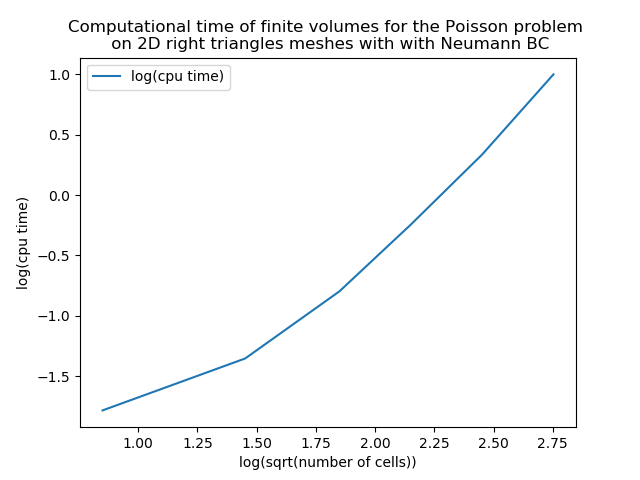
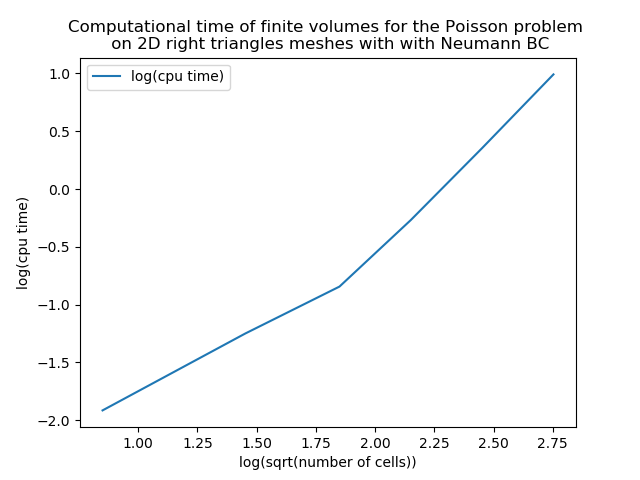
Updated previously existing numerical results

diff --git a/Documentation/NumericalResults/Convergence/StationaryDiffusion/2DFV_Neumann_RightTriangles/validationStationaryDiffusionEquation.py b/Documentation/NumericalResults/Convergence/StationaryDiffusion/2DFV_Neumann_RightTriangles/validationStationaryDiffusionEquation.py
@@ -134,8 +134,6 @@ def SolveStationaryDiffusionEquation(my_mesh,resolution,MeshType,method,BC):
 		if spaceDim == 3:
 			myProblem.setNeumannBoundaryCondition("Front")
 			myProblem.setNeumannBoundaryCondition("Back")
-		if method == 'FE' :
-			myProblem.setLinearSolver(cf.GMRES,cf.ILU);#LU solvers breaks down
 
 	if spaceDim == 2 : 
 		test_desc["Geometry"]="Square"

diff --git a/Documentation/NumericalResults/Convergence/StationaryDiffusion/2DFV_Neumann_Squares/validationStationaryDiffusionEquation.py b/Documentation/NumericalResults/Convergence/StationaryDiffusion/2DFV_Neumann_Squares/validationStationaryDiffusionEquation.py
@@ -134,8 +134,6 @@ def SolveStationaryDiffusionEquation(my_mesh,resolution,MeshType,method,BC):
 		if spaceDim == 3:
 			myProblem.setNeumannBoundaryCondition("Front")
 			myProblem.setNeumannBoundaryCondition("Back")
-		if method == 'FE' :
-			myProblem.setLinearSolver(cf.GMRES,cf.ILU);#LU solvers breaks down
 
 	if spaceDim == 2 : 
 		test_desc["Geometry"]="Square"
